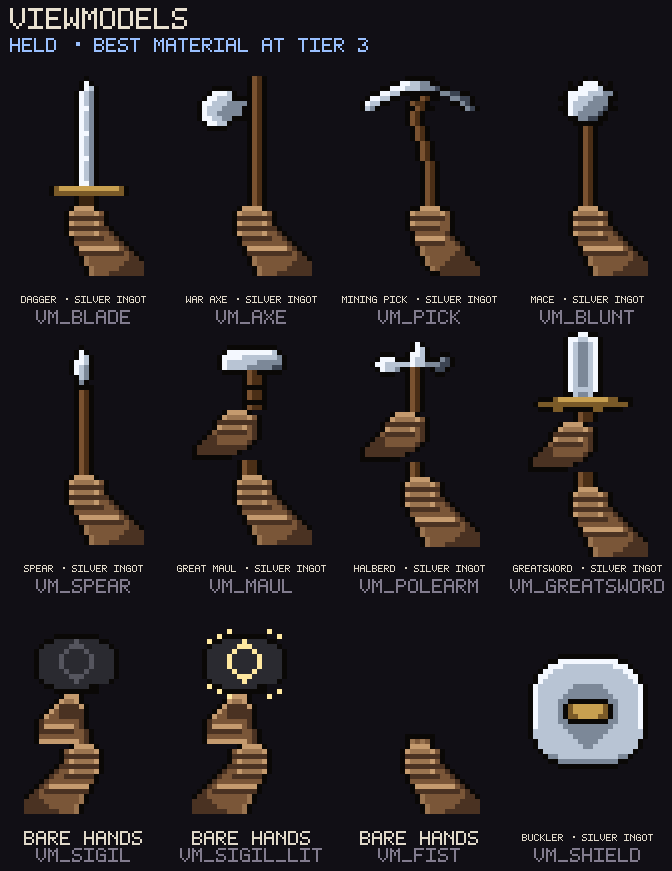
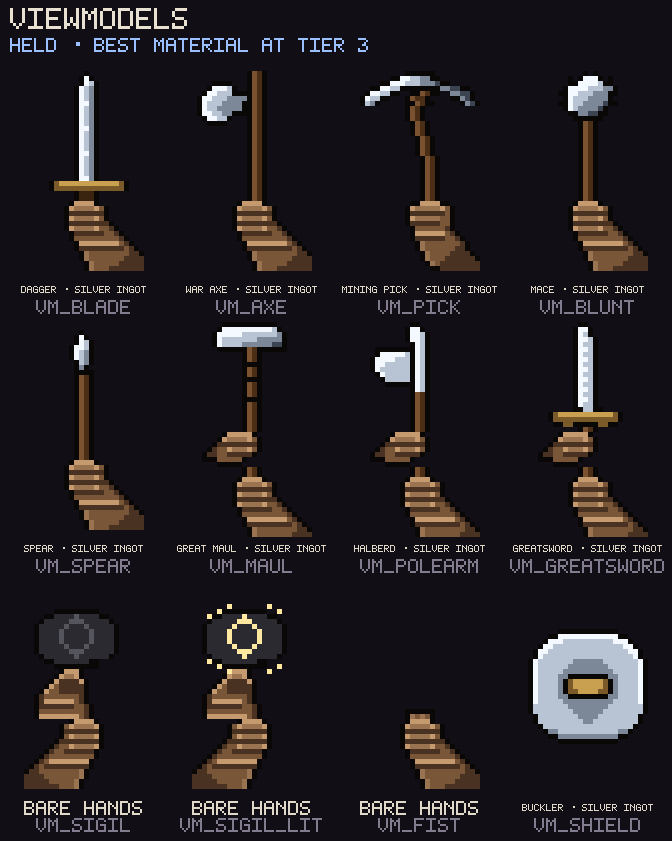
Rebuild the two-handed grip and the weapons it was crowding out
Two full hands, one stacked on the other, were twenty-eight of the
sprite's forty rows. The weapon got what was left, which is why the
greatsword was a stubby blade under an enormous pair of arms and the
maul's haft was barely longer than the fist holding it.

The grip is now how it actually looks from behind: the near hand is
HAND, the same one every other weapon uses, and the far hand is smaller
and further up the shaft, mostly behind it, with just enough forearm
running out to the left to read as a hand rather than a swelling in the
haft. Two equal fists stacked read as one tapering cone no matter what
the finger banding does — tried that first, and a bespoke pair of fists
after it, and both came out as lumps.

With the rows back, the greatsword is a long slender blade on a
symmetric crossguard, and the maul has a haft long enough to carry its
head.

vm_polearm was the odd one out: it had a spike, a stub and a
counterweight inside four rows and resolved into something closer to a
pickaxe. It is now what the redrawn icon is — a spear point with an axe
wedge hung off the near side of the shaft — so the model and the icon
are the same weapon.

Checked in the first-person view at each step, not only on the sheet.

diff --git a/src/art/viewmodels.ts b/src/art/viewmodels.ts
@@ -137,93 +137,125 @@ const SPEAR = [
   ...HAND,
 ];
 
-// Two-handed models share a small forward fist above the main grip. Keeping the
-// shaft visible on both sides makes it read as a grip rather than a floating hand.
 /**
- * The off hand, higher up the haft, for the two-handed grip.
+ * The two-handed grip: a fist above, a span of haft, a fist below.
  *
- * It was six rows of featureless knuckles and read as a bulge in the shaft
- * rather than a hand — which, with every viewmodel sprite being 24x40 and the
- * renderer normalising them all to the same height, left a greatsword looking
- * like a long sword. This one is a whole fist with its forearm running out to
- * the *left*, opposite the main hand at the bottom, so the two together read as
- * a grip at a glance and at speed.
+ * It used to be the one-handed hand — fourteen rows of fist and forearm — with
+ * a second one stacked on top, which ate more than half the sprite and left the
+ * weapon squeezed into what was left. A greatsword came out with a stubby blade
+ * under an enormous pair of arms. These are the same hands drawn to the size a
+ * grip actually needs, so the weapon gets the frame back.
+ *
+ * The upper fist's forearm exits left and the lower one's exits right, which is
+ * what makes the pair read as one grip on one shaft rather than two hands.
  */
-const SECOND_HAND = rows(`
-  ......kddddk............
+/**
+ * The two-handed grip: the near hand in full, the far hand as knuckles.
+ *
+ * Two equal fists stacked on the shaft read as one tapering cone, whatever the
+ * finger banding does — and two *full* hands are twenty-eight of the sprite's
+ * forty rows, which is what left the greatsword with a stubby blade. This is
+ * how the grip actually looks from behind it: the near hand is {@link HAND},
+ * the same one every other weapon uses, and the far hand is smaller and further
+ * up, mostly behind the shaft, with just enough forearm running out to the left
+ * to read as a hand rather than a swelling in the haft.
+ */
+const GRIP_UPPER = rows(`
+  ......kdddddk...........
   .....kdccccdbk..........
   ....kaaaaaaaak..........
-  ....kdccccdbak..........
-  ...kbaaaaaabak..........
-  ..kaabbbbbbbak..........
-  .kaaabbbbbbak...........
-  kaaaaaaaaaak............
-  kaaaaaaaak..............
-  kkkkkkkk................
+  ...kabbdcccdbk..........
+  ..kaabbaaaaak...........
+  ..kkkbbbbbk.............
+  .....kkkkk..............
 `);
+const GRIP_LOWER = HAND.slice(0, 12);
 
 const MAUL = [
-  '.......kkkkkkkkkk.......',
-  '......k4444444443k......',
-  '.....k444433333332k.....',
-  '.....k433333322222k.....',
-  '.....k433332222211k.....',
-  '......kkkkkwvkkkkk......',
-  '..........kwvvk.........',
-  '..........kwvvk.........',
-  '..........kkkkk.........',
-  '..........kwvvk.........',
-  '..........kwvvk.........',
-  '..........kkkkk.........',
-  '..........kwvvk.........',
-  ...SECOND_HAND,
-  '.........kwvvk..........',
-  '.........kwvvk..........',
-  '.........kwvvk..........',
-  ...HAND,
+  '......kkkkkkkkkkk.......',
+  '.....k44444444443k......',
+  '....k4444433333332k.....',
+  '....k4333333322222k.....',
+  '....k4333322222211k.....',
+  '.....kkkkkkwvkkkkkk.....',
+  '..........kwvk..........',
+  '..........kwvk..........',
+  '..........kkkk..........',
+  '..........kwvk..........',
+  '..........kwvk..........',
+  '..........kkkk..........',
+  '..........kwvk..........',
+  '..........kwvk..........',
+  '..........kwvk..........',
+  '..........kkkk..........',
+  '..........kwvk..........',
+  '..........kwvk..........',
+  '..........kwvk..........',
+  '..........kwvk..........',
+  '..........kwvk..........',
+  '..........kwvk..........',
+  ...GRIP_UPPER,
+  '..........kwvk..........',
+  '..........kwvk..........',
+  ...GRIP_LOWER,
 ];
 
 const POLEARM = [
-  '..........k4k...........',
+  '..........kk............',
+  '.........k44k...........',
+  '.........k443k..........',
+  '.........k443k..........',
   '..........k43k..........',
-  '....kkk..k443k..kk......',
-  '...k444kkk433kkk21k.....',
-  '..k443333343322211k.....',
-  '...k4332kkwvk.k11k......',
-  '....kkk..kwvk..kk.......',
-  '.........kwvk...........',
-  ...Array.from({ length: 6 }, () => '.........kwvk...........'),
-  ...SECOND_HAND,
-  '.........kwvk...........',
-  '.........kwvk...........',
-  '.........kwvk...........',
-  ...HAND,
+  '...kkkkkkkk43k..........',
+  '...k444443k43k..........',
+  '..k4444333k43k..........',
+  '..k4433333k43k..........',
+  '..k4333333k43k..........',
+  '...k433333k43k..........',
+  '....k33333k43k..........',
+  '.....kkkkkk43k..........',
+  '..........k43k..........',
+  '..........kwvk..........',
+  '..........kwvk..........',
+  '..........kwvk..........',
+  '..........kwvk..........',
+  '..........kwvk..........',
+  '..........kwvk..........',
+  '..........kwvk..........',
+  '..........kwvk..........',
+  ...GRIP_UPPER,
+  '..........kwvk..........',
+  '..........kwvk..........',
+  ...GRIP_LOWER,
 ];
 
 const GREATSWORD = [
-  '........kk44kk..........',
-  '.......k443344k.........',
-  '.......k432234k.........',
-  '.......k432234k.........',
-  '.......k432234k.........',
-  '.......k432234k.........',
-  '.......k432234k.........',
-  '.......k432234k.........',
-  '.......k432234k.........',
-  '.......k432234k.........',
-  '.......k432234k.........',
-  '.......k433334k.........',
-  '.......kk3223kk.........',
-  '..kkkghhhhhhhhhhggkkk...',
-  '.kggggggggggggggggggk...',
-  '..kkkggkkkkkkggkkkk.....',
-  '.........kwvvk..........',
-  '.........kwvvk..........',
-  ...SECOND_HAND,
-  '.........kwvvk..........',
-  '.........kwvvk..........',
-  '.........kwvvk..........',
-  ...HAND,
+  '..........kk............',
+  '.........k44k...........',
+  '.........k43k...........',
+  '.........k443k..........',
+  '.........k433k..........',
+  '.........k443k..........',
+  '.........k433k..........',
+  '.........k443k..........',
+  '.........k433k..........',
+  '.........k443k..........',
+  '.........k433k..........',
+  '.........k443k..........',
+  '.........k433k..........',
+  '.........k443k..........',
+  '.........k433k..........',
+  '.........k443k..........',
+  '.........k433k..........',
+  '.........kk33kk.........',
+  '....kghhhhhhhhhhhgk.....',
+  '....kgggggggggggggk.....',
+  '.....kkggkkkkkggkk......',
+  '..........kwvk..........',
+  ...GRIP_UPPER,
+  '..........kwvk..........',
+  '..........kwvk..........',
+  ...GRIP_LOWER,
 ];
 
 // A thrown weapon has no first-person model. The shaft leaves the player and is
